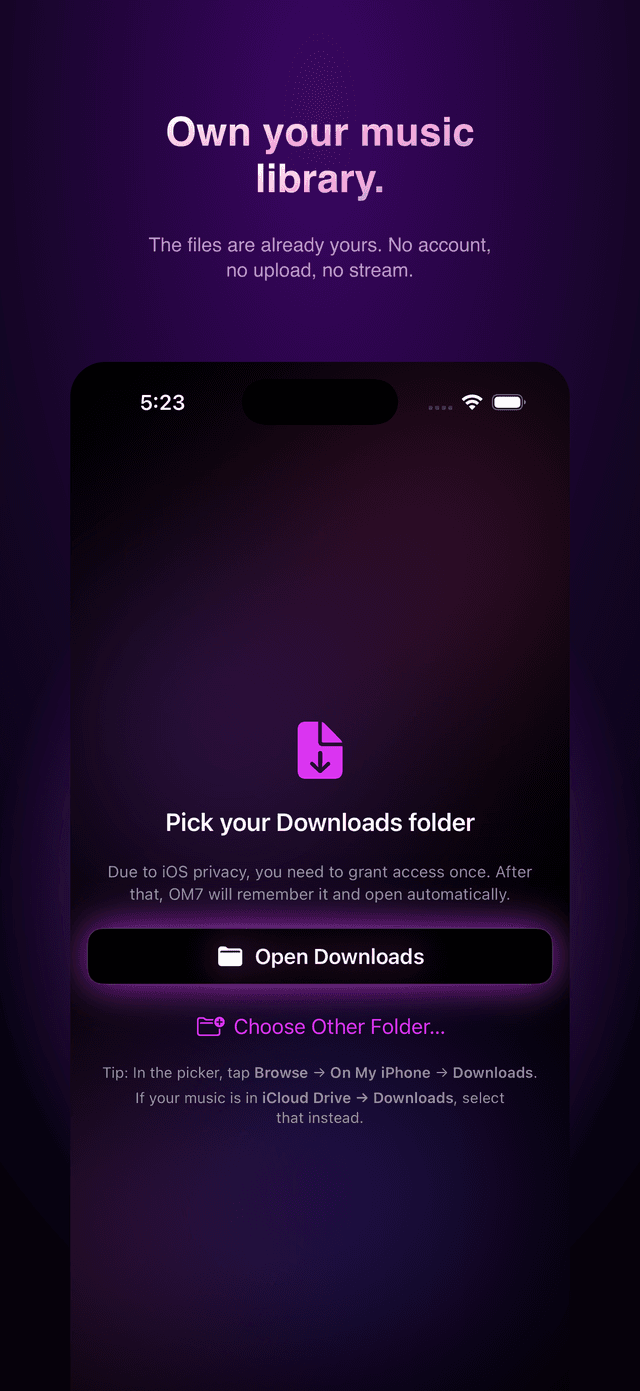
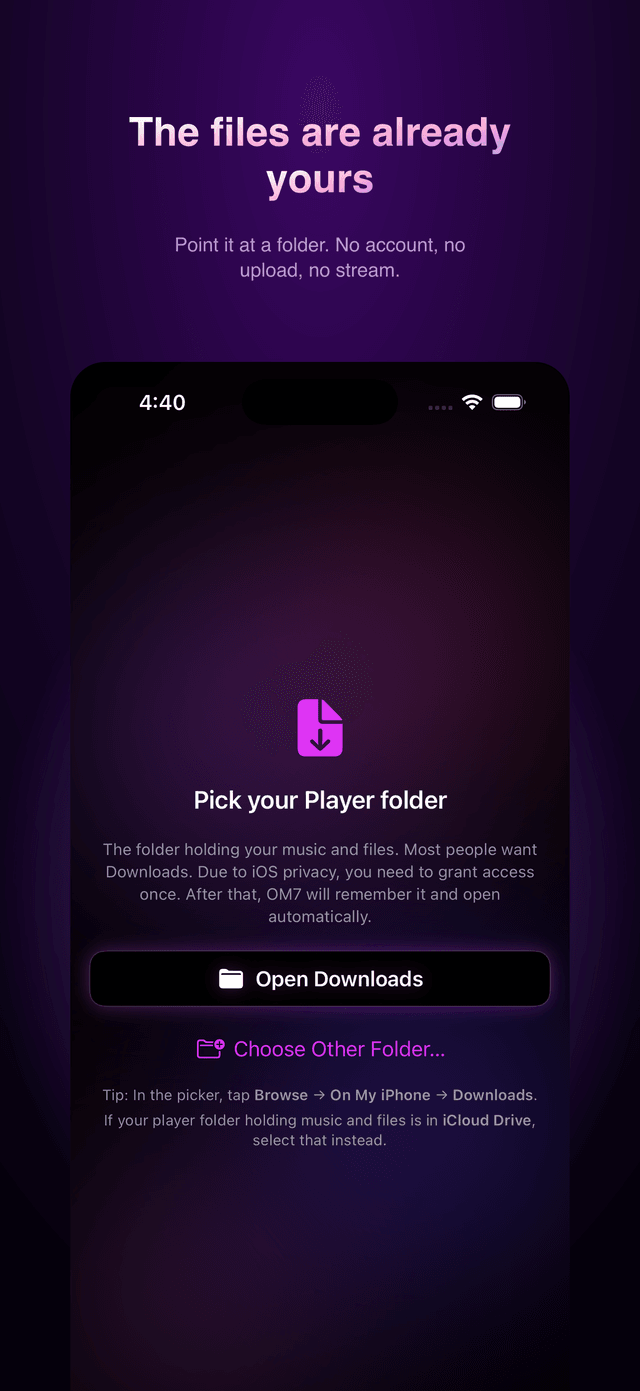
feat(storefront): the current OM7Player set, and what the app actually is now
The screenshots on the artist page were the set from 4 August - five
shots, taken before the directory shipped. The App Store listing has had
six since 18 August, and the sixth is the one that shows the thing people
ask about: opening a city and turning the cards.

Same treatment as the shots they replace: 640px wide rather than the full
1320px App Store resolution, because the rail draws them at 236px and the
section renders `unoptimized` on the promise that these are stored at the
size they are shown. Straight copies of the originals came to 2.3MB;
re-encoded through sharp with a palette they are 564KB, which puts every
file back in the same range as the ones that were there before. UI
screenshots are large flat areas of one colour, which is what a palette
encodes well and what truecolour PNG wastes bytes on.

Alt text is now the caption printed on each shot rather than a separate
description. Somebody using a screen reader should get what somebody
looking at it gets.

The section note described the app as only a local player, which stopped
being true when the tools and the directory landed. It now says what the
app is - and deliberately does NOT mention Drills, which is built but not
shipped. The site should describe the build people can actually download.

Changed region(s): [[0.0938, 0.4637, 0.9062, 0.8656], [0.2188, 0.0618, 0.8125, 0.2164], [0.2188, 0.2782, 0.2812, 0.3091]]

diff --git a/storefront/src/modules/artists/components/om7player-section/index.tsx b/storefront/src/modules/artists/components/om7player-section/index.tsx
@@ -2,13 +2,21 @@ import Image from "next/image"
 
 import { OM7_PLAYER_URL } from "@lib/sounds"
 
-/** The App Store set, same five and same order as the listing. */
+/**
+ * The App Store set, same six and same order as the listing.
+ *
+ * The alt text is the caption printed on each shot rather than a separate
+ * description of it. Somebody using a screen reader should get what somebody
+ * looking at it gets, and what they get is the caption - inventing different
+ * words here would give the two audiences two different pitches.
+ */
 const SHOTS = [
-  { src: "/om7player/01-appstore-6.9.png", alt: "Own your music library" },
-  { src: "/om7player/02-appstore-6.9.png", alt: "Point it at a folder" },
-  { src: "/om7player/03-appstore-6.9.png", alt: "Make the cover yours" },
-  { src: "/om7player/04-appstore-6.9.png", alt: "Take notes on the take" },
-  { src: "/om7player/05-appstore-6.9.png", alt: "Become the ultimate artist" },
+  { src: "/om7player/01-appstore-6.9.png", alt: "The files are already yours" },
+  { src: "/om7player/02-appstore-6.9.png", alt: "Your tools, and other artists" },
+  { src: "/om7player/03-appstore-6.9.png", alt: "Your pace, your dates" },
+  { src: "/om7player/04-appstore-6.9.png", alt: "Loop the part that bothers you" },
+  { src: "/om7player/05-appstore-6.9.png", alt: "Make your own card" },
+  { src: "/om7player/06-appstore-6.9.png", alt: "Find artists, not algorithms" },
 ]
 
 /**
@@ -19,7 +27,7 @@ const SHOTS = [
  * this page, and putting a link off-site above them would spend attention that
  * had somewhere better to go.
  *
- * The screenshots scroll rather than wrap into a grid. Five phone screens laid
+ * The screenshots scroll rather than wrap into a grid. Six phone screens laid
  * flat is a wall; a rail reads as a set you flick through, which is how the
  * App Store shows them and therefore how they were composed.
  */

diff --git a/storefront/src/app/[countryCode]/(main)/artists/[handle]/page.tsx b/storefront/src/app/[countryCode]/(main)/artists/[handle]/page.tsx
@@ -79,7 +79,7 @@ export default async function ArtistPage(props: Props) {
         <FeatureRequest artistHandle={artist.handle} artistName={artist.name} />
       </Section>
 
-      <Section title="OM7Player" note="Your library, on your phone. No account, no upload, no stream.">
+      <Section title="OM7Player" note="Your library on your phone, plus notes, projects and budgets — and a directory of independent artists who own their own sites. No account to play, no ads, no subscriptions.">
         <Om7PlayerSection />
       </Section>
     </>
